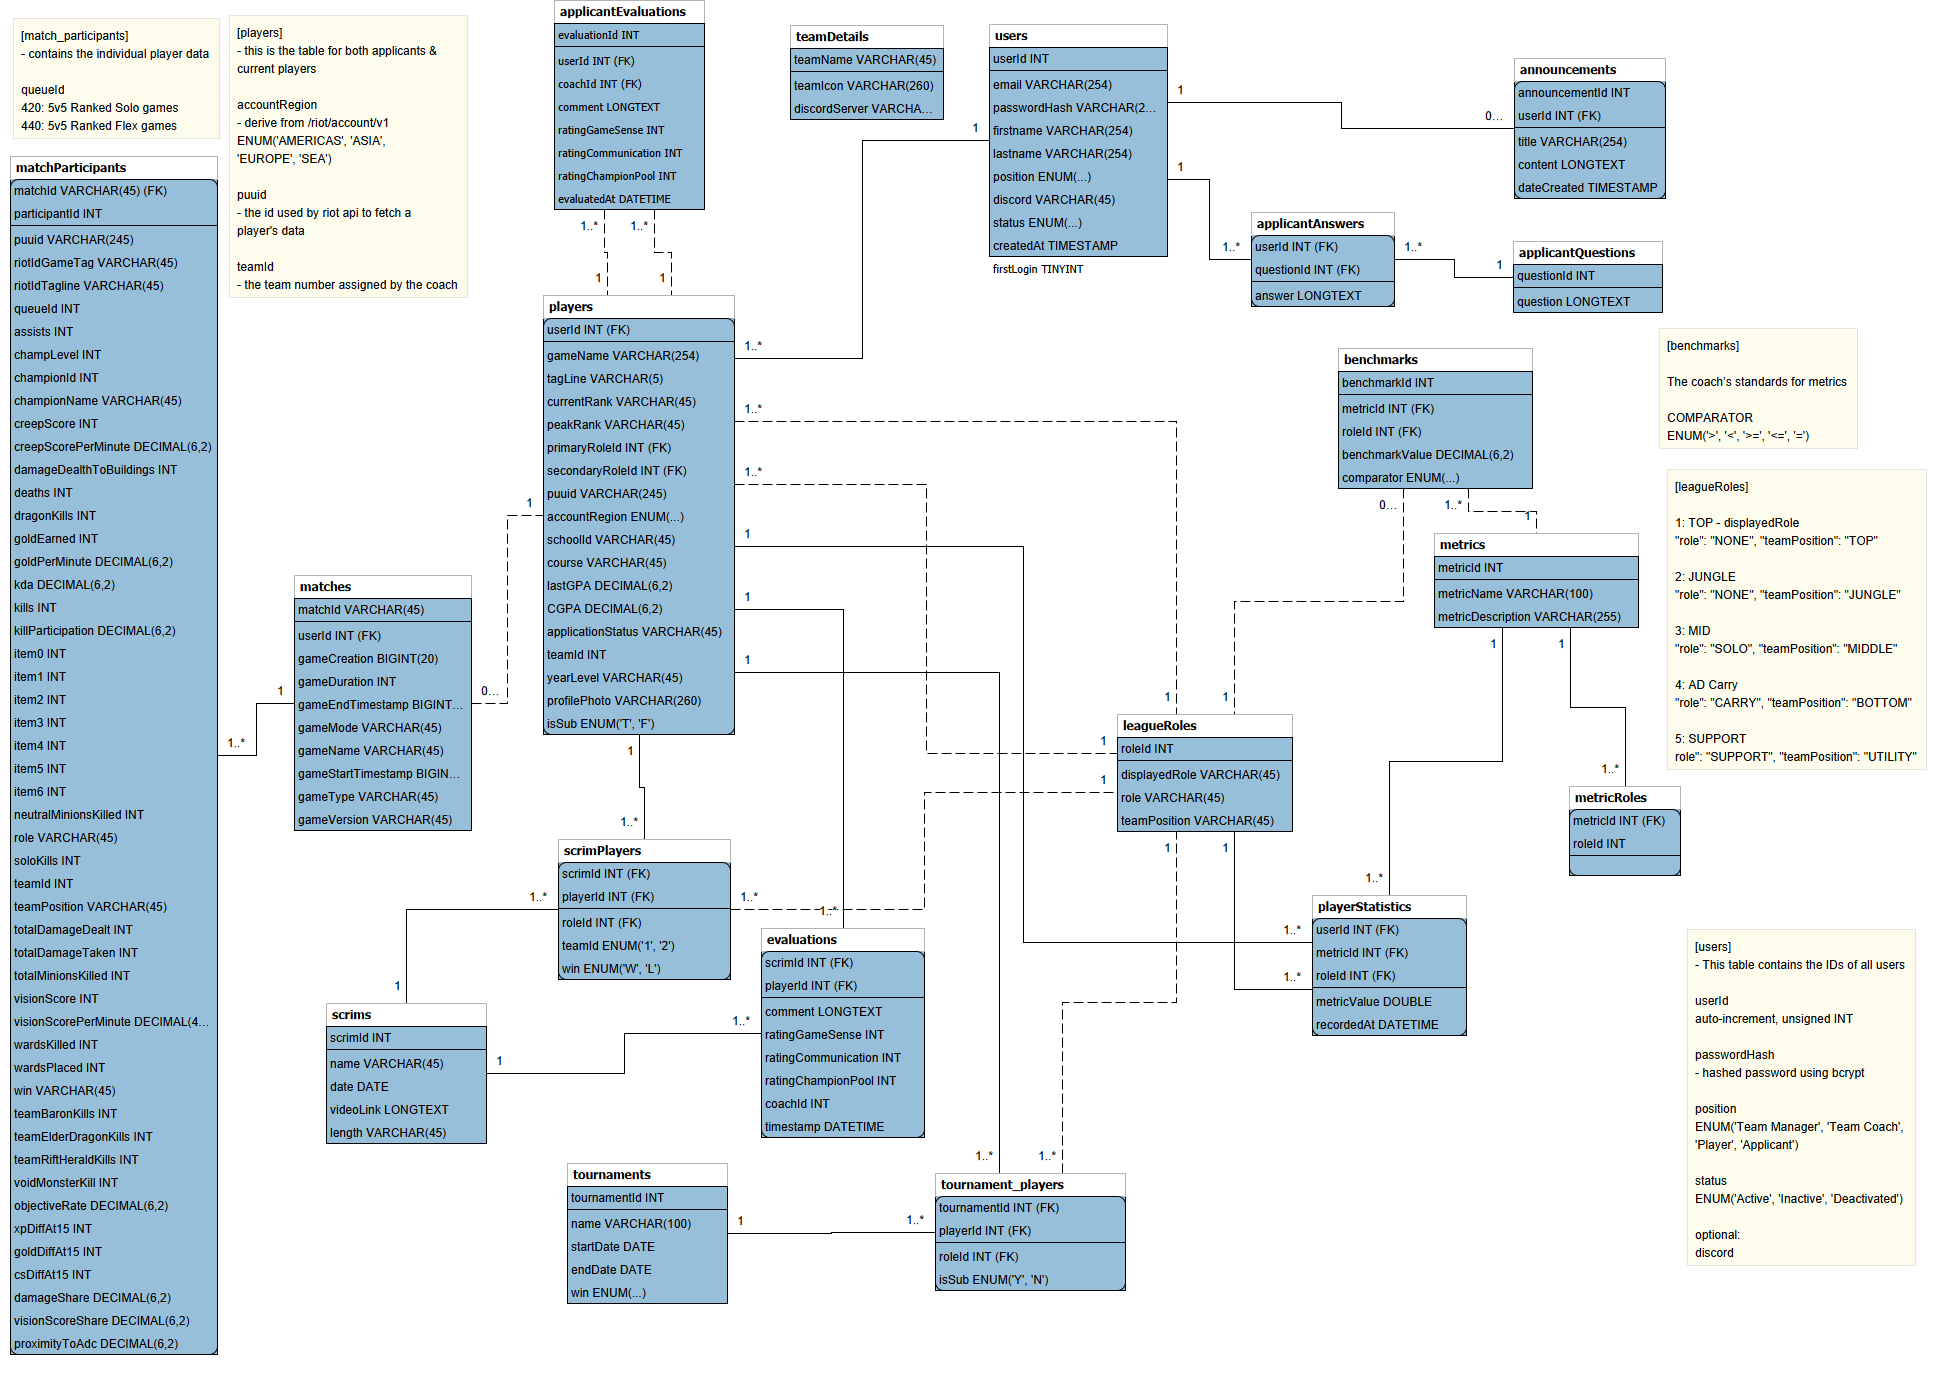
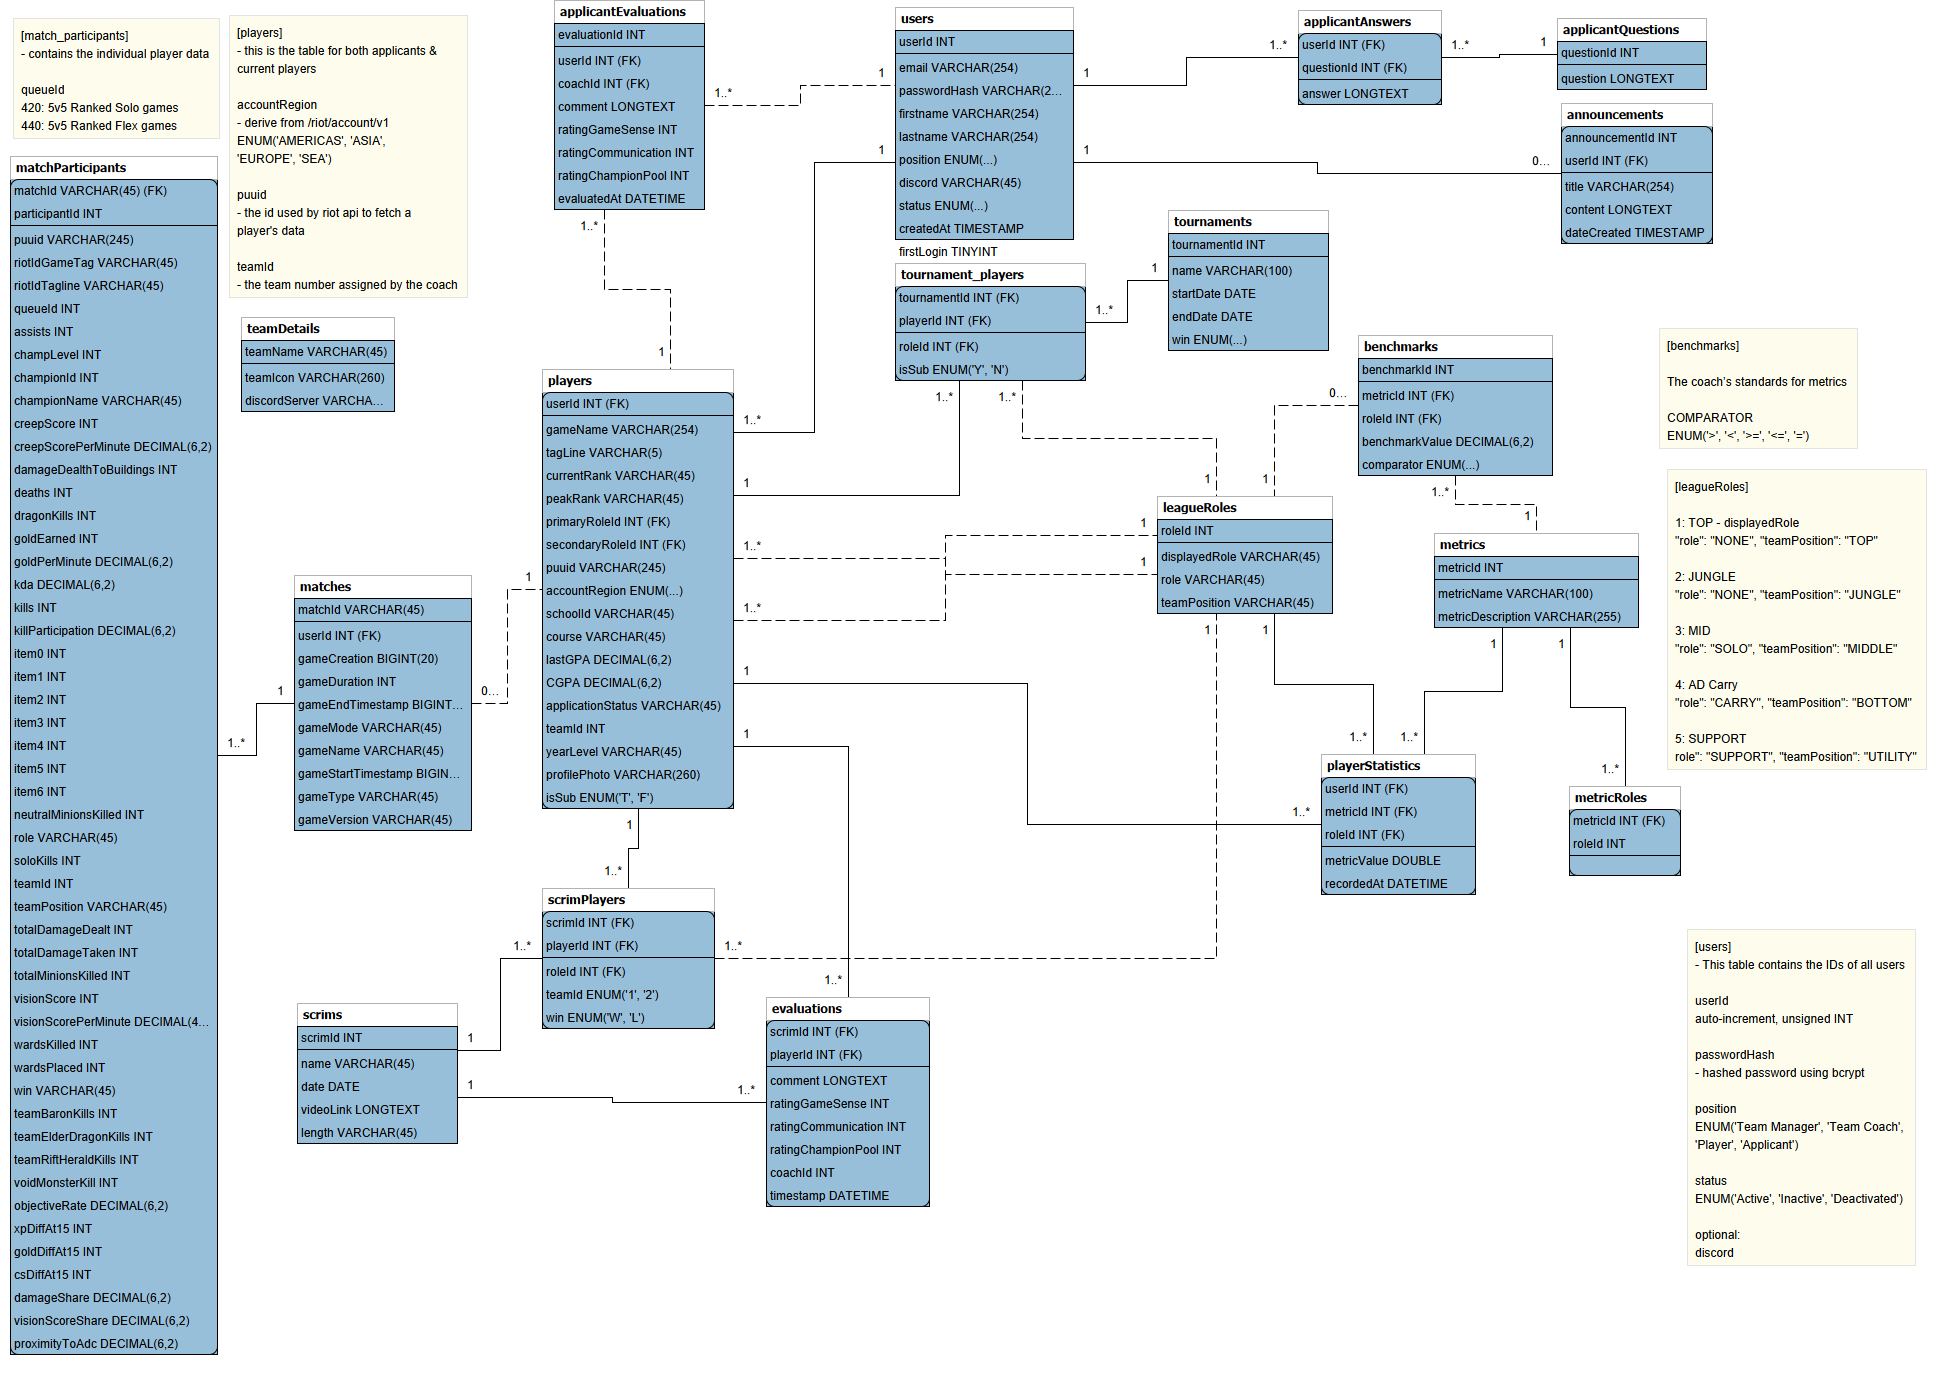
[DATABASE]: Changed coachId foreign key to users table

diff --git a/views/reports.html b/views/reports.html
@@ -123,18 +123,7 @@
         <div class="chart-wrap">
           <canvas id="roleChart"></canvas>
           <div class="legend">
-            <div class="legend-item">
-              <div class="legend-dot" style="background:#3b82f6"></div>Top
-            </div>
-            <div class="legend-item">
-              <div class="legend-dot" style="background:#f59e0b"></div>Mid
-            </div>
-            <div class="legend-item">
-              <div class="legend-dot" style="background:#9ca3af"></div>Jungle
-            </div>
-            <div class="legend-item">
-              <div class="legend-dot" style="background:#f97316"></div>Support
-            </div>
+
           </div>
         </div>
       </div>

diff --git a/public/js/applicant_profile.js b/public/js/applicant_profile.js
@@ -541,9 +541,10 @@ function drawComparisonChart(p1Stats, p2Stats, benchmarks, isBenchmark) {
         const commsEl = document.querySelector('input[name="communication"]:checked');
         const champPoolEl = document.querySelector('input[name="champPool"]:checked');
 
+        // TODO: Change to logged-in coach ID
         const evaluationData = {
             userId: state.currentApplicant.userId,
-            coachId: 1, 
+            coachId: 2, 
             notes: UI.commentBox ? UI.commentBox.value : "",
             gameSense: gameSenseEl ? parseInt(gameSenseEl.value, 10) : 0,
             communication: commsEl ? parseInt(commsEl.value, 10) : 0,